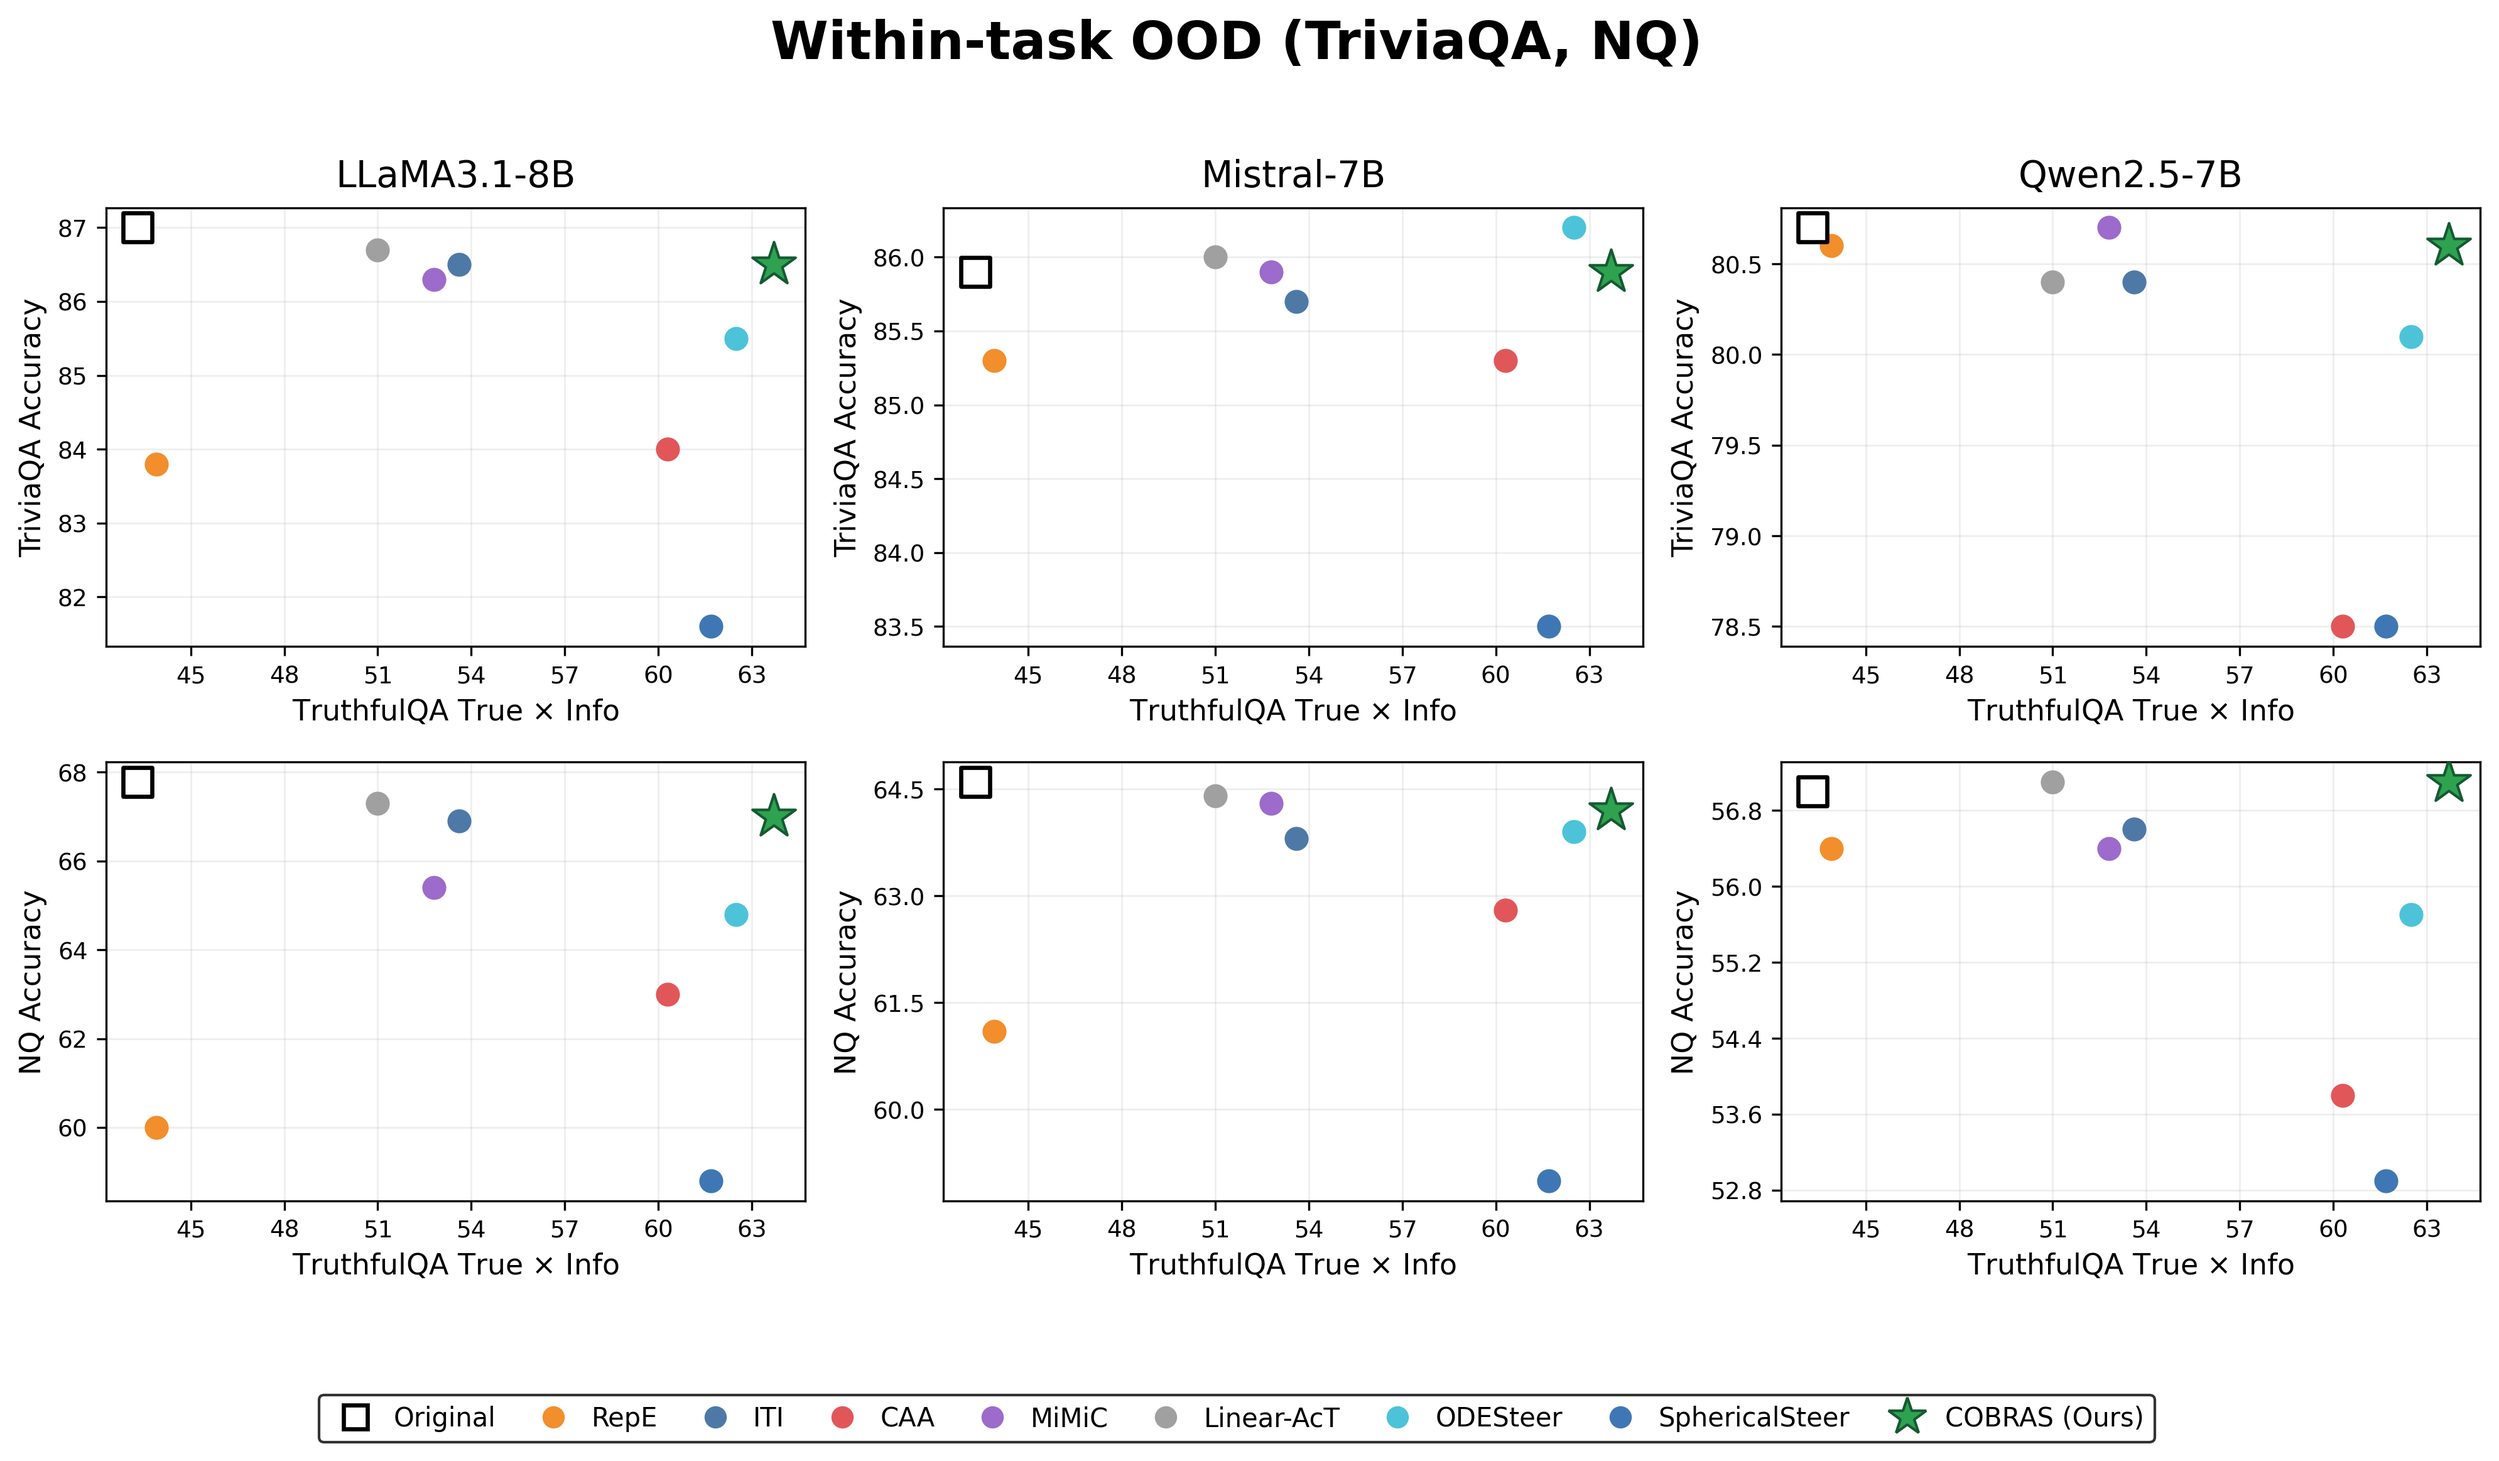
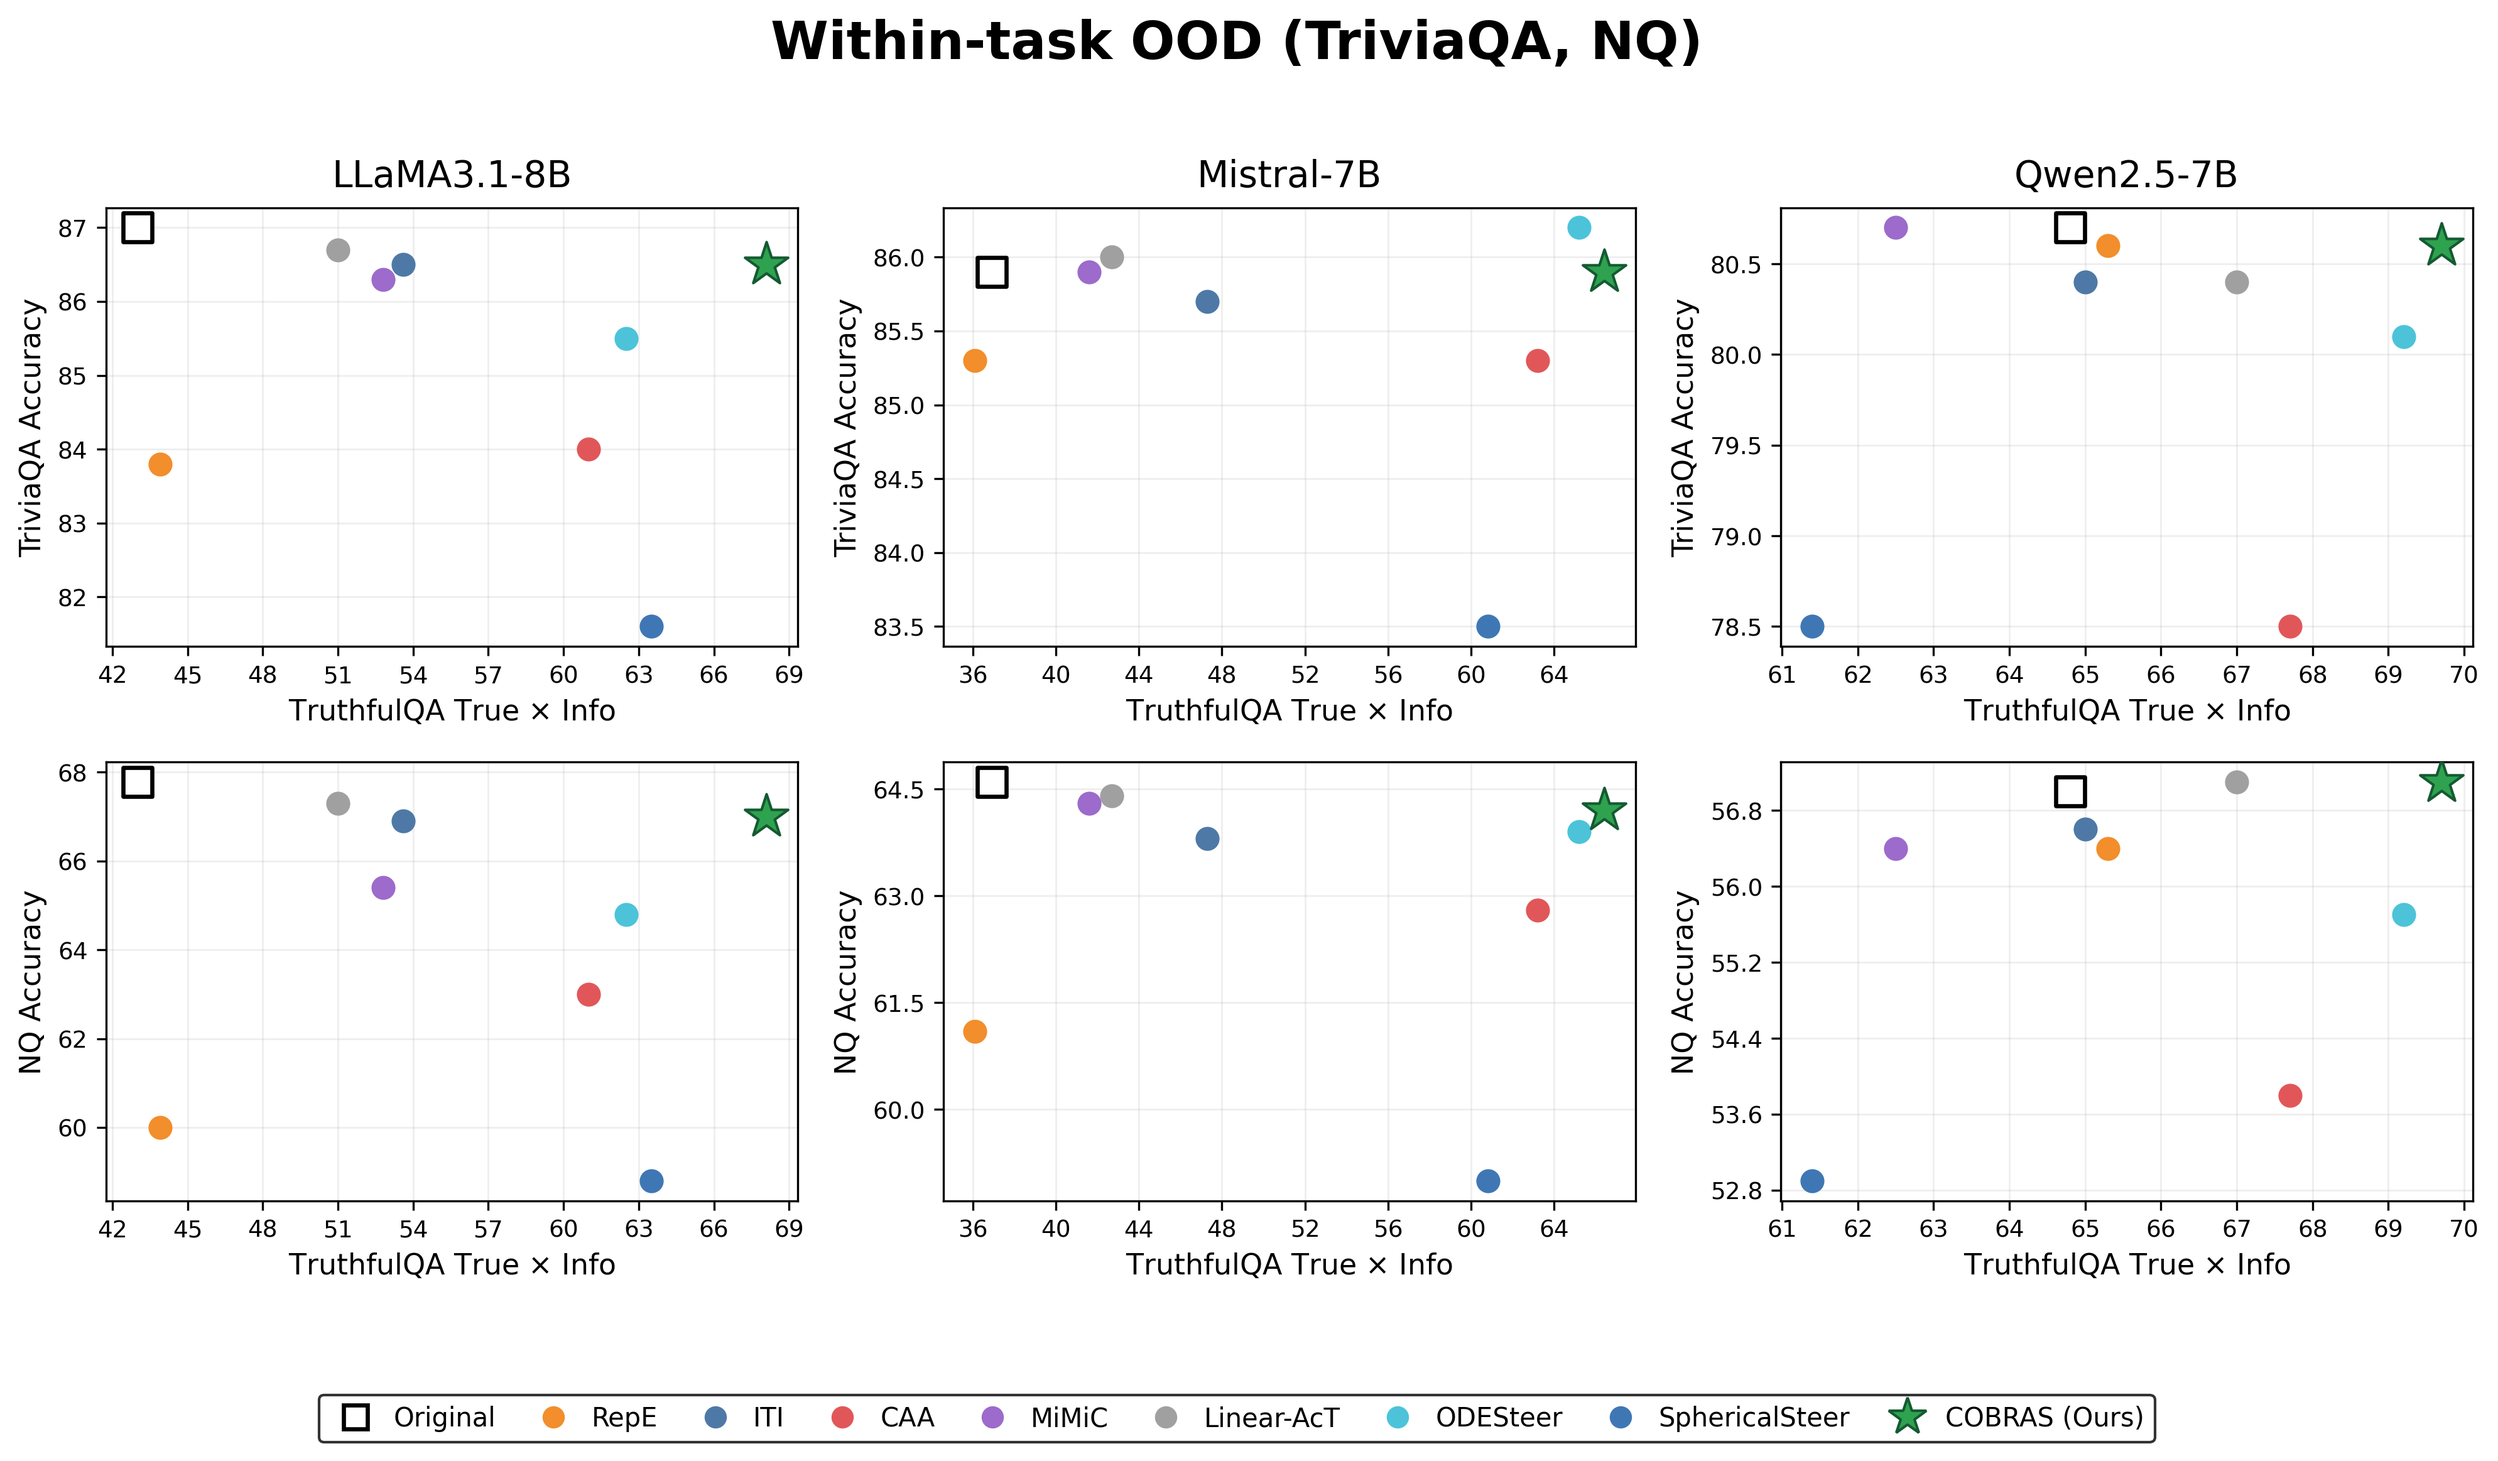
Updates from Overleaf

diff --git a/appendix.tex b/appendix.tex
@@ -58,6 +58,7 @@ When evaluating the global flow framework under these spherical constraints, the
 \subsection{Continuous bridge and discrete transport}
 \label{apx:static}
 
+\textcolor{red}{please talk to me about this part.}
 \paragraph{\textcolor{blue}{Probability-flow identity.}}
 \textcolor{blue}{Song et al.~\citep[Sec.~4.3, Eq.~13]{song2020score} give the following statement.}
 \begin{quote}
@@ -109,7 +110,7 @@ At convergence, the plan satisfies both marginals. The geodesic kernel and subse
 \subsection{Kernel gradients and conditional weights}
 \label{app:grad-psi}
 
-\textcolor{blue}{The weighted logarithm maps in Eq.~\eqref{eq:cobras-field} arise from the log-gradients of weighted kernel estimates at a fixed bandwidth $b$.} For $\theta=d_{\Sph}(\boldsymbol{x},\boldsymbol{h})/R<\pi$, differentiating $R^2\arccos^2(R^{-2}\boldsymbol{x}^\top\boldsymbol{h})$ and projecting onto the tangent space gives
+The weighted logarithm maps in Eq.~\eqref{eq:cobras-field} arise from the log-gradients of weighted kernel estimates at a fixed bandwidth $b$. For $\theta=d_{\Sph}(\boldsymbol{x},\boldsymbol{h})/R<\pi$, differentiating $R^2\arccos^2(R^{-2}\boldsymbol{x}^\top\boldsymbol{h})$ and projecting onto the tangent space gives
 \[
 \nablaS d_{\Sph}(\boldsymbol{x},\boldsymbol{h})^2
 =-\frac{2\theta}{\sin\theta}\Pi_{\boldsymbol{x}}\boldsymbol{h}
@@ -129,31 +130,29 @@ Taking $m_i=a_i^+$ or $m_j=a_j^-$ gives the log-gradients of the fitted kernel f
 
 \paragraph{Gradient interpretation of the steering field.}
 \label{apx:omitted-term}
-\textcolor{blue}{The fitted scalings $a_j^-,a_i^+$ remain fixed during generation, while the conditional coefficients $m^+_{i,b}(\boldsymbol{x})$ and $m^-_{j,b}(\boldsymbol{x})$ are recomputed at each iterate. At a shared fixed bandwidth $b$, applying Eq.~\eqref{eq:grad-psi} with the current coefficient values held fixed gives $\boldsymbol{v}(\boldsymbol{x})$ as $b$ times the local log-ratio gradient.}
+The fitted scalings $a_j^-,a_i^+$ remain fixed during generation, while the conditional coefficients $m^+_{i,b}(\boldsymbol{x})$ and $m^-_{j,b}(\boldsymbol{x})$ are recomputed at each iterate. At a shared fixed bandwidth $b$, applying Eq.~\eqref{eq:grad-psi} with the current coefficient values held fixed gives $\boldsymbol{v}(\boldsymbol{x})$ as $b$ times the local log-ratio gradient.
 
-\textcolor{blue}{Including the derivatives of the conditional coefficients gives}
+Including the derivatives of the conditional coefficients gives
 \begin{equation}
-\textcolor{blue}{\begin{aligned}
+\begin{aligned}
 b\nablaS\log
 \frac{\sum_i m^+_{i,b}(\boldsymbol{x})K_b(\boldsymbol{x},\boldsymbol{h}_i^+)}
 {\sum_j m^-_{j,b}(\boldsymbol{x})K_b(\boldsymbol{x},\boldsymbol{h}_j^-)}
 ={}&\boldsymbol{v}(\boldsymbol{x})\\
 &+b\sum_i\bar{w}_i^+\nablaS\log m^+_{i,b}
 -b\sum_j\bar{w}_j^-\nablaS\log m^-_{j,b},
-\end{aligned}}
+\end{aligned}
 \label{eq:apx-omitted}
 \end{equation}
-\textcolor{blue}{where all terms are evaluated at $\boldsymbol{x}$. The coefficient derivatives also have a weighted log-map form. In particular, Eq.~\eqref{eq:ext-psi} gives}
+where all terms are evaluated at $\boldsymbol{x}$. The coefficient derivatives also have a weighted log-map form. In particular, Eq.~\eqref{eq:ext-psi} gives
 \[
-\textcolor{blue}{
 b\nablaS\log m^+_{i,b}(\boldsymbol{x})
 =\sum_j
 \frac{a_j^-K_b(\boldsymbol{x},\boldsymbol{h}_j^-)e^{-c_{ji}}}
 {m^+_{i,b}(\boldsymbol{x})}
 \log_{\boldsymbol{x}}(\boldsymbol{h}_j^-).
-}
 \]
-\textcolor{blue}{The weights in this sum are positive and sum to one. The corresponding expression for $m^-_{j,b}$ averages logarithm maps toward desired samples. The two additional terms in Eq.~\eqref{eq:apx-omitted} therefore reweight the same sample directions through a difference of convex combinations. For the shared fixed bandwidth considered here, holding the coefficients fixed makes $\boldsymbol{v}$ an ascent direction for the current local log-ratio. Recomputing the coefficients after each step updates which contrastive samples guide the next direction.}
+The weights in this sum are positive and sum to one. The corresponding expression for $m^-_{j,b}$ averages logarithm maps toward desired samples. The two additional terms in Eq.~\eqref{eq:apx-omitted} therefore reweight the same sample directions through a difference of convex combinations. For the shared fixed bandwidth considered here, holding the coefficients fixed makes $\boldsymbol{v}$ an ascent direction for the current local log-ratio. Recomputing the coefficients after each step updates which contrastive samples guide the next direction.
 
 \subsection{Proof of Proposition~\ref{prop:ldr-limit}}
 \label{apx:proof-ldr-limit}
@@ -252,7 +251,7 @@ The gate values show the practical effect of the score separation. At $p=0.7$, t
 \section{\textcolor{blue}{Nearest-neighbor support gating}}
 \label{apx:knn}
 
-\textcolor{blue}{In this appendix, we describe a kNN gate that can be attached to other steering methods and explain its relation to the support score in Eq.~\eqref{eq:support-score}. We then examine how much OOD retention comes from gating, whether the steering rule still matters under a shared gate, and how calibration affects the intervention.}
+\textcolor{blue}{In this section, we describe a kNN gate that can be seamlessly integrated as an external module to other steering methods and explain its relation to the support score in Eq.~\eqref{eq:support-score}. We then examine how much OOD retention comes from gating, whether the steering rule still matters under a shared gate, and how calibration affects the intervention.}
 
 \subsection{\textcolor{blue}{Gate construction and connection to the support score}}
 \label{apx:knn-gate}

diff --git a/conclusion.tex b/conclusion.tex
@@ -1,3 +1,5 @@
 \vspace{-1mm}\section{Conclusion}
 \label{sec:conclusion}
-\textcolor{blue}{We introduced \Cobras, a framework for activation steering based on Schr\"{o}dinger bridges that connects transport-based steering to log-density-ratio objectives. The fitted transport supplies query-dependent steering directions and support information for controlling when to intervene. Experiments across four models and three alignment objectives show strong in-distribution performance, while evaluations under distribution shift demonstrate the value of support gating for retaining OOD capabilities. The framework has both theoretical and practical limitations. The density-ratio reduction assumes a shared fixed bandwidth and vanishing transport costs, and does not establish optimality of the practical adaptive steering rule. Pairwise distance computations and Sinkhorn updates incur costs proportional to $N_+N_-$, limiting scalability to large contrastive sets, while the assumed spherical geometry may not hold across all architectures or layers. These limitations motivate further theoretical analysis of the adaptive steering rule, hierarchical transport solvers, and extensions to learned or more general Riemannian geometries.}
+\textcolor{blue}{We introduced \Cobras, a framework for activation steering based on Schr\"{o}dinger bridges that connects transport-based steering to log-density-ratio objectives. The fitted transport supplies query-dependent steering directions and support information for controlling when to intervene. Experiments across four models and three alignment objectives show strong in-distribution performance, while evaluations under distribution shift demonstrate the value of support gating for retaining OOD capabilities.}
+
+\textcolor{blue}{The framework has both theoretical and practical limitations. The density-ratio reduction assumes a shared fixed bandwidth and vanishing transport costs, and does not establish optimality of the practical adaptive steering rule. Pairwise distance computations and Sinkhorn updates incur costs proportional to $N_+N_-$, limiting scalability to large contrastive sets, while the assumed spherical geometry may not hold across all architectures or layers. These limitations motivate further theoretical analysis of the adaptive steering rule, hierarchical transport solvers, and extensions to learned or more general Riemannian geometries.}

diff --git a/method.tex b/method.tex
@@ -167,6 +167,7 @@ With coverage parameter $p\in(0,1)$, the gate leaves the steering strength uncha
 \textcolor{blue}{We also implement a kNN distance gate that can be attached as an external module to other steering methods. The gate depends only on the query and contrastive activations and scales each method's own intervention. Appendix~\ref{apx:knn} presents the gate, its connection to the support score, and evaluations across steering methods.}
 \end{remark}
 
+\textcolor{red}{Building upon our proposed steering framework, we demonstrate that a simplified version of our algorithm yields a universal kNN distance gate that can be seamlessly integrated as an external module into existing methods. This lightweight gate relies solely on the query and contrastive activations to dynamically scale each baseline method's intervention. Appendix~\ref{apx:knn} details the formulation of the gate, its  connection to the support score, and comprehensive  evaluations across steering methods.}
 \subsection{Applying the intervention during generation}
 \label{subsec:procedure}
 

diff --git a/neurips_main.tex b/neurips_main.tex
@@ -228,7 +228,6 @@ Activation steering offers a lightweight alternative to fine-tuning for controll
 \end{abstract}
 
 
-\bigskip
 
 \input{introduction}
 \input{related_work}
